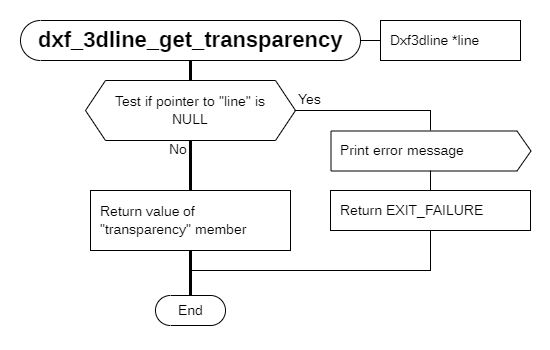
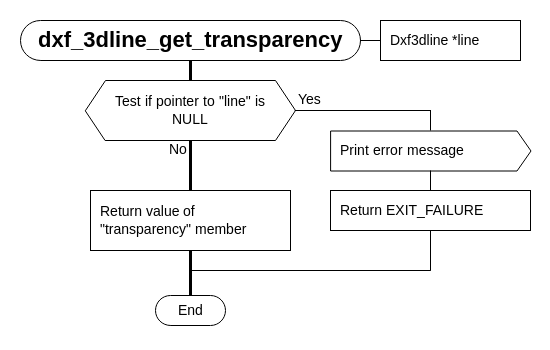
3DLINE: added a flow diagram for dxf_3dline_get_transparency().

diff --git a/src/3dline.c b/src/3dline.c
@@ -2536,6 +2536,9 @@ dxf_3dline_set_color_name
 /*!
  * \brief Get the \c transparency from a DXF \c 3DLINE entity.
  *
+ * <b>Flow diagram:</b>
+ * \image html drakon/dxf_3dline_get_transparency.png
+ *
  * \return \c transparency when successful, or \c EXIT_FAILURE when an
  * error occurred.
  */
